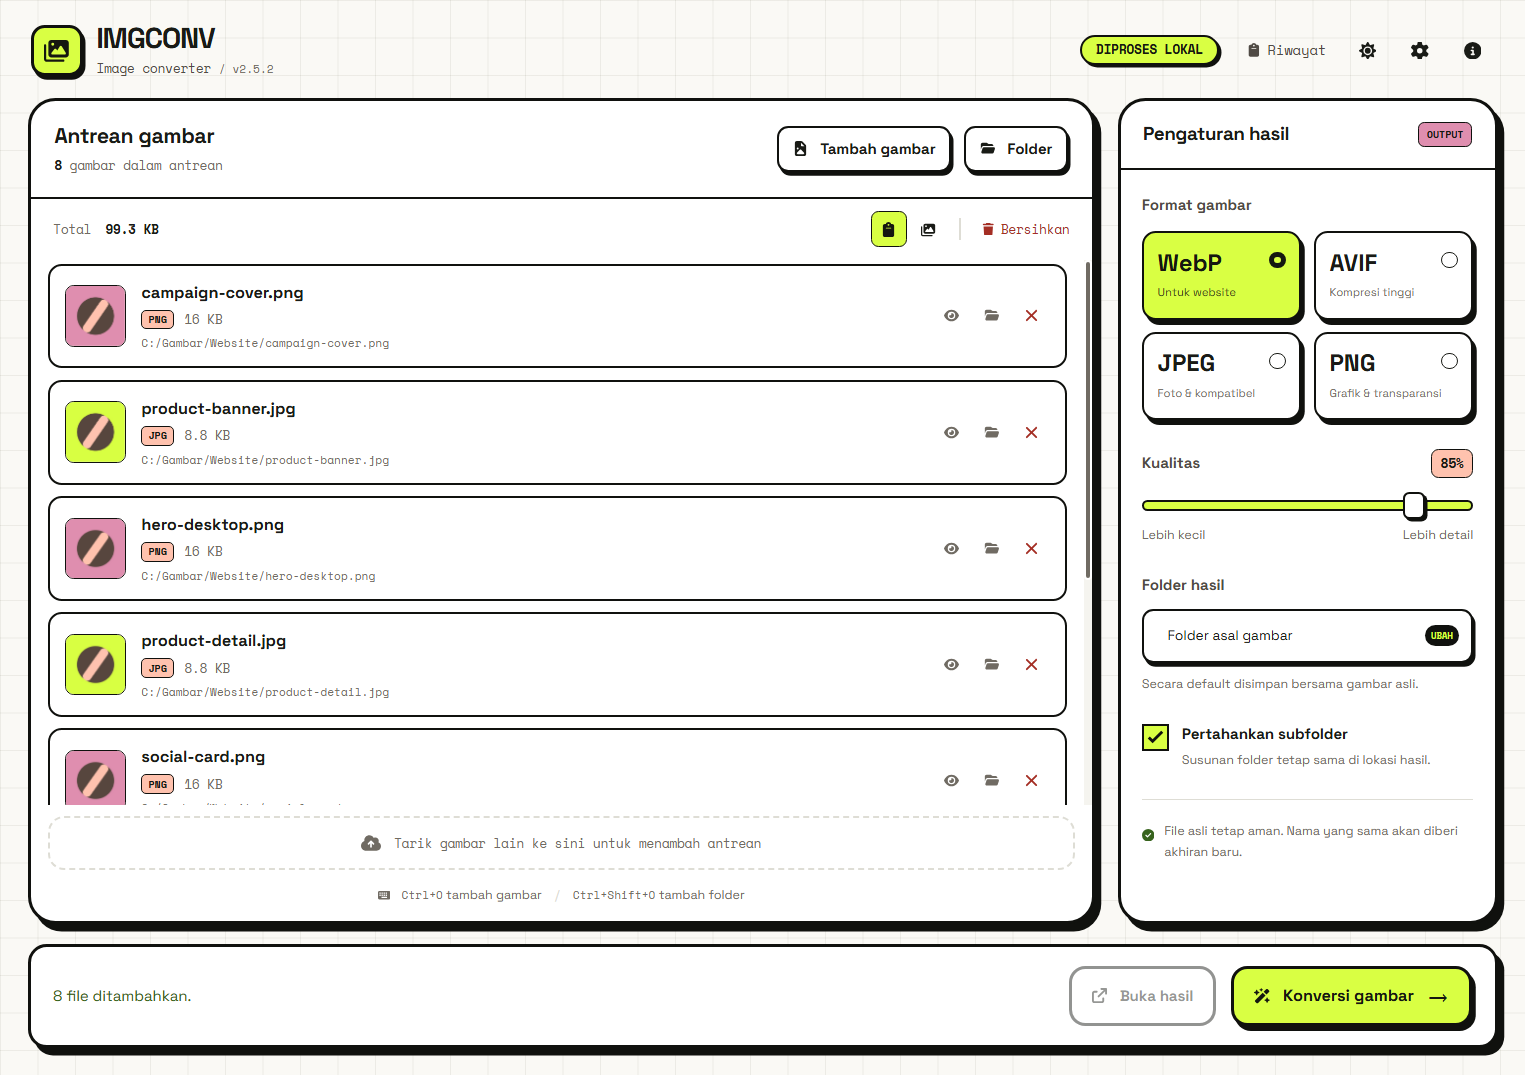
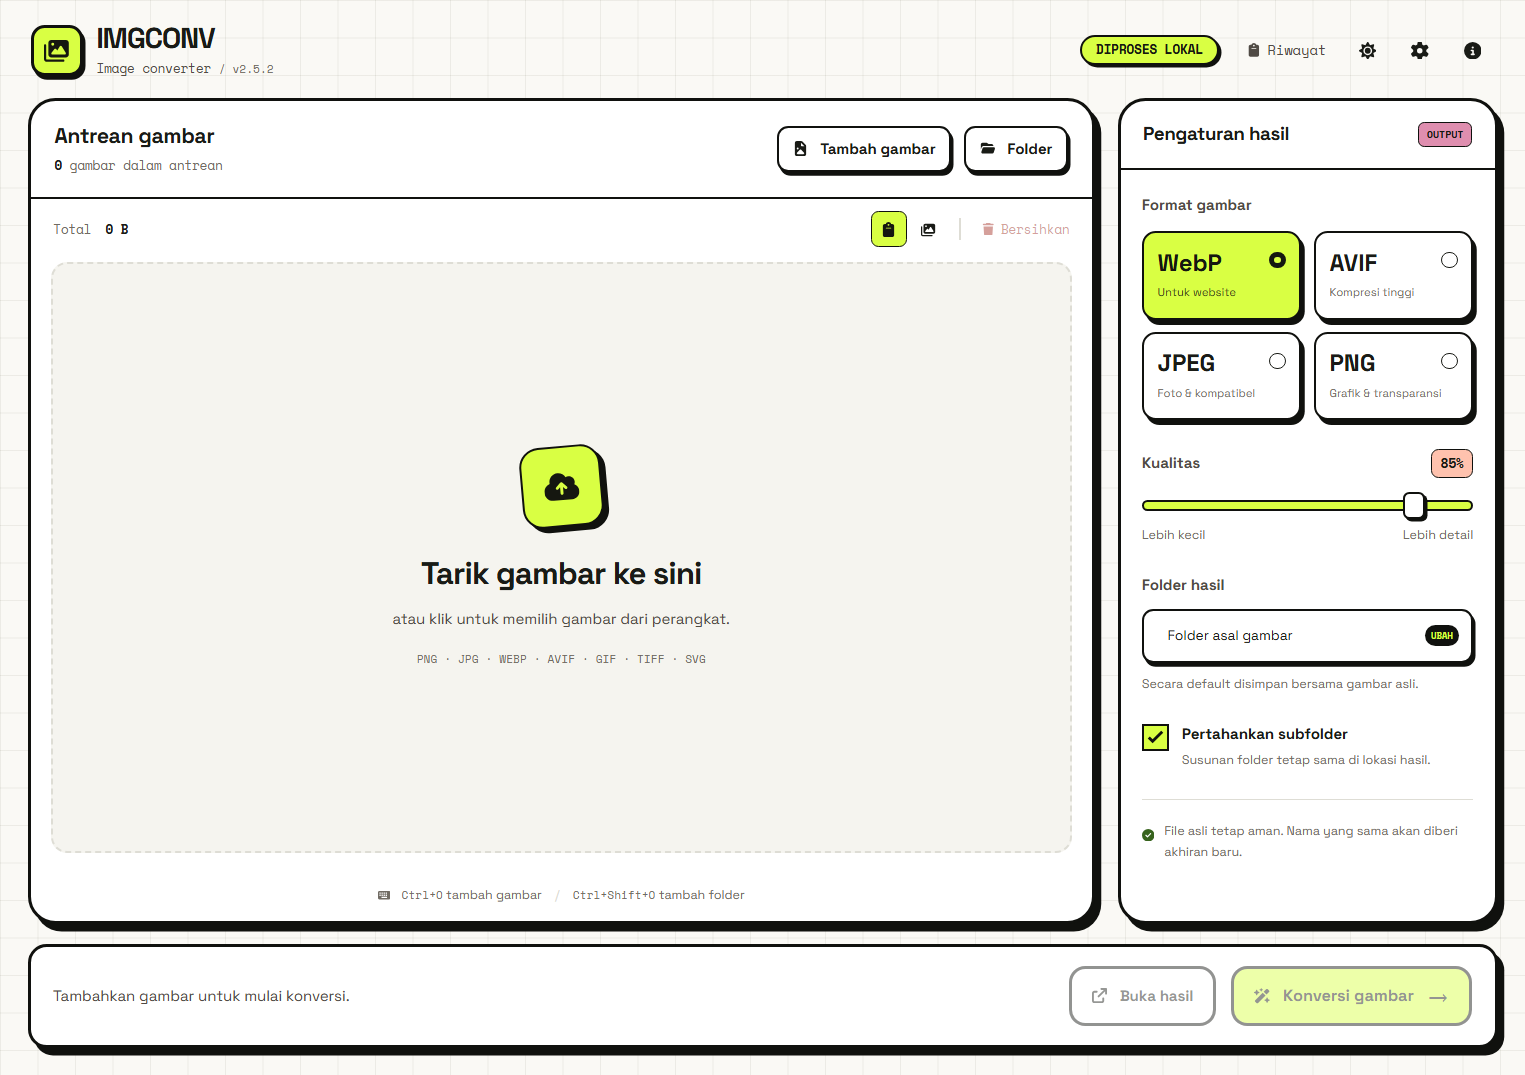
docs: use a clean first-launch product preview

diff --git a/CONTRIBUTING.md b/CONTRIBUTING.md
@@ -21,11 +21,11 @@ npm run test:ui
 npm audit
 ```
 
-`test:electron` dan `test:ui` menggunakan profil sementara. Hasil capture UI berada di `artifacts/ui/` dan tidak dimasukkan ke Git. Untuk memperbarui screenshot README menggunakan file contoh dan path yang sudah disamarkan:
+`test:electron` dan `test:ui` menggunakan profil sementara. Hasil capture UI berada di `artifacts/ui/` dan tidak dimasukkan ke Git. Untuk memperbarui screenshot README dari keadaan awal aplikasi tanpa path atau file pribadi:
 
 ```powershell
-node scripts/run-electron-smoke.cjs --ui --readme
-Copy-Item artifacts/ui/queue-1220.png docs/images/workspace.png
+npm run test:ui
+Copy-Item artifacts/ui/empty-1220.png docs/images/workspace.png
 ```
 
 ## Mengirim perubahan

diff --git a/README.md b/README.md
@@ -11,7 +11,7 @@ Image to WebP, dengan antarmuka **ImgConv**, membantu menyiapkan foto produk, ga
 
 ![Workspace Image to WebP](docs/images/workspace.png)
 
-*Antrean gambar menjadi area utama; pengaturan berada di sidebar dan tombol konversi tetap terlihat saat daftar digulir. Screenshot menggunakan file contoh.*
+*Antrean gambar menjadi area utama; pengaturan berada di sidebar dan tombol konversi tetap terlihat saat daftar digulir. Screenshot menampilkan keadaan awal aplikasi.*
 
 ## Unduh untuk Windows
 
